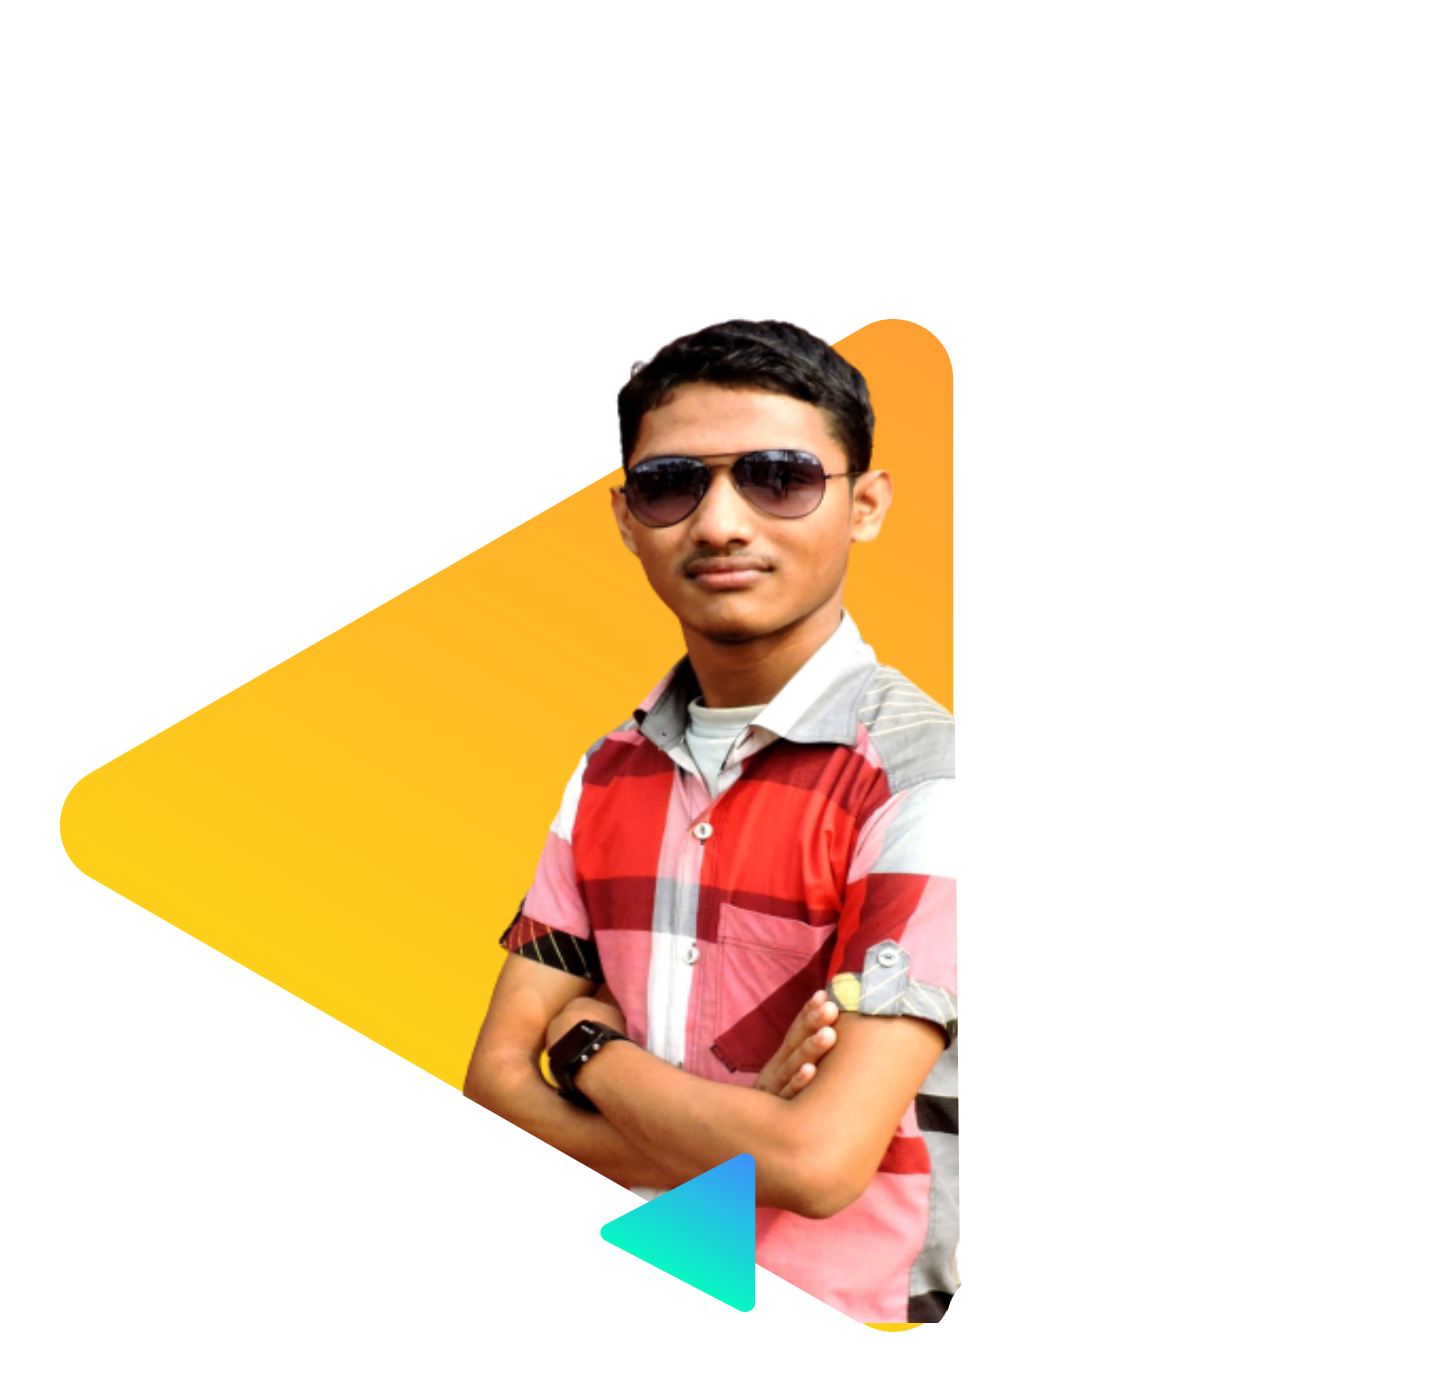
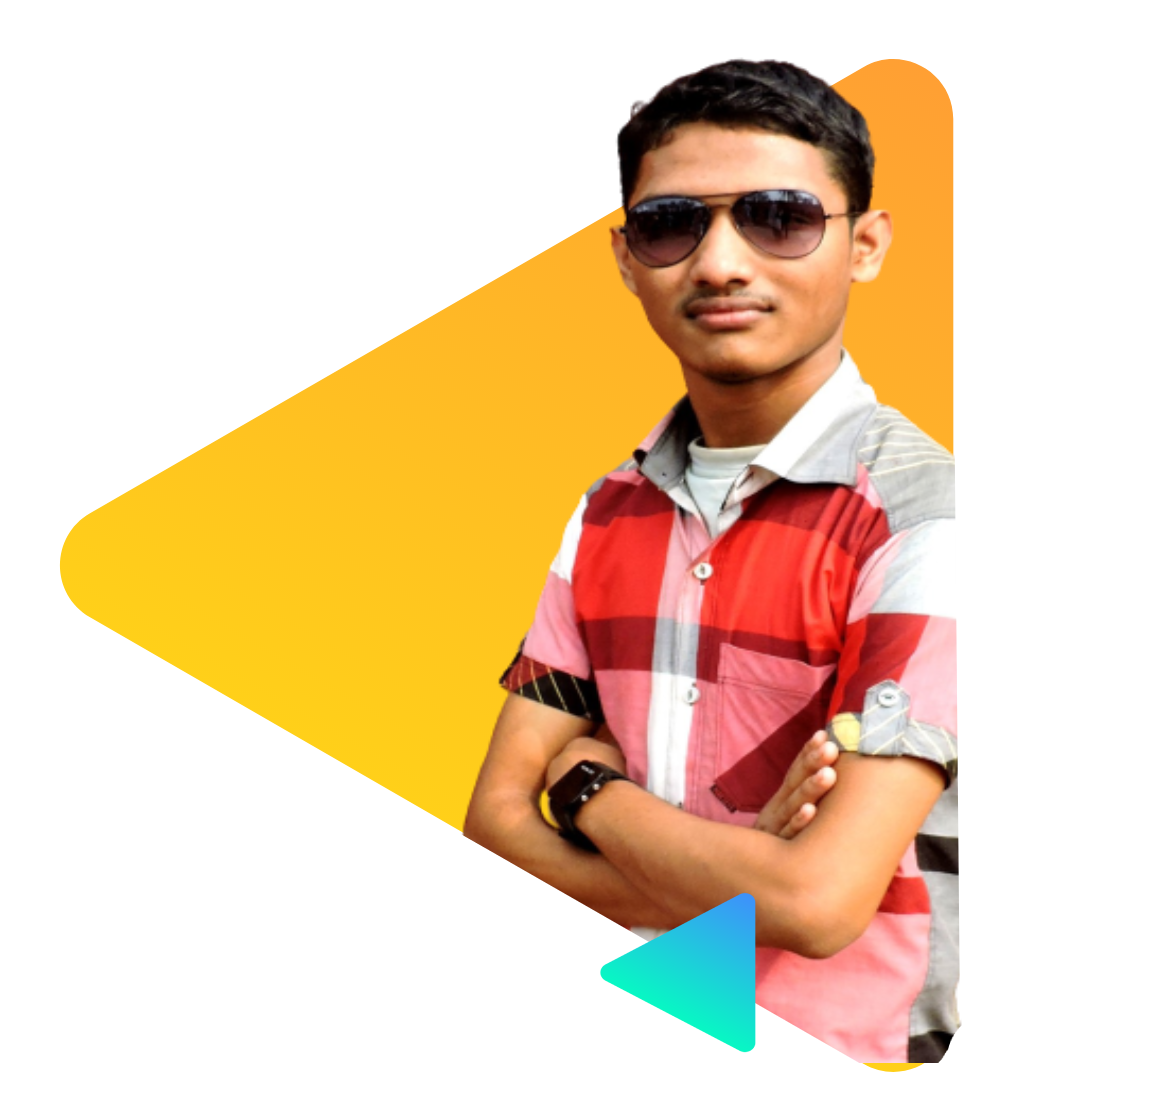
add header area

diff --git a/style.css b/style.css
@@ -1,0 +1,95 @@
+* {
+    margin: 0;
+    padding: 0;
+    box-sizing: border-box;
+}
+
+html,
+body {
+    font-family: 'Roboto', sans-serif;
+    font-size: 16px;
+}
+
+p {
+    color: dimgray;
+}
+
+header,
+section {
+    height: 500px;
+    padding-bottom: 100px;
+}
+
+.half-width {
+    width: 40%;
+    float: left;
+    margin-left: 5%;
+    padding-left: 2%;
+    padding-right: 2%;
+}
+
+.half-width img {
+    width: 100%;
+    transition: all ease-in-out 1s;
+    -webkit-transition: all ease-in-out 1s;
+    -moz-transition: all ease-in-out 1s;
+    -ms-transition: all ease-in-out 1s;
+    -o-transition: all ease-in-out 1s;
+}
+
+.half-width img:hover {
+    transform: translate(30px);
+    -webkit-transform: translate(30px);
+    -moz-transform: translate(30px);
+    -ms-transform: translate(30px);
+    -o-transform: translate(30px);
+}
+
+.link-button {
+    padding: 15px 40px;
+    background-image: linear-gradient(45deg, #EC5299, #ED4B6F);
+    text-decoration: none;
+    font-weight: 700;
+    font-size: 18px;
+    text-transform: uppercase;
+    color: white;
+    border-radius: 5px;
+    -webkit-border-radius: 5px;
+    -moz-border-radius: 5px;
+    -ms-border-radius: 5px;
+    -o-border-radius: 5px;
+    transition: all ease-in-out 0.5s;
+    -webkit-transition: all ease-in-out 0.5s;
+    -moz-transition: all ease-in-out 0.5s;
+    -ms-transition: all ease-in-out 0.5s;
+    -o-transition: all ease-in-out 0.5s;
+}
+
+.link-button:hover {
+    opacity: 0.9;
+    background-image: linear-gradient(-45deg, #EC5299, #ED4B6F);
+}
+
+.header-area {
+    background-image: url("images/header-bg.png");
+    background-repeat: no-repeat;
+    background-size: 100%;
+    padding: 60px 0;
+}
+
+.header-area h2 {
+    margin-top: 90px;
+    font-weight: normal;
+    font-size: 40px;
+    padding-bottom: 15px;
+}
+
+.header-area h1 {
+    font-size: 50px;
+    padding-bottom: 15px;
+    color: #EC5299;
+}
+
+.header-area p {
+    margin-bottom: 40px;
+}

diff --git a/index.html b/index.html
@@ -5,11 +5,27 @@
     <meta charset="UTF-8">
     <meta name="viewport" content="width=device-width, initial-scale=1.0">
     <title>Sourab Hossain - Personal Portfolio</title>
+    <link href="https://fonts.googleapis.com/css2?family=Roboto:wght@400;500;700&display=swap" rel="stylesheet">
     <link rel="stylesheet" href="style.css">
 </head>
 
-<body>
-    
+<body> 
+    <header class="header-area">
+        <div class="half-width">
+            <h2>Hello I'm</h2>
+            <h1>Sourab Hossain</h1>
+            <p>You might saw me jumping, climbing buildings, and stopping trains. But nobody pays me a dime for that work.</p>
+            <a class="link-button" href="https://www.linkedin.com/in/sourabhossain/" target="_blank" rel="noopener noreferrer">hire me!</a>
+        </div>
+
+        <div class="half-width">
+            <img src="images/sourab.png" alt="sourab.png">
+        </div>
+    </header>
+
+    <section class="biography">
+
+    </section>
 </body>
 
 </html>
